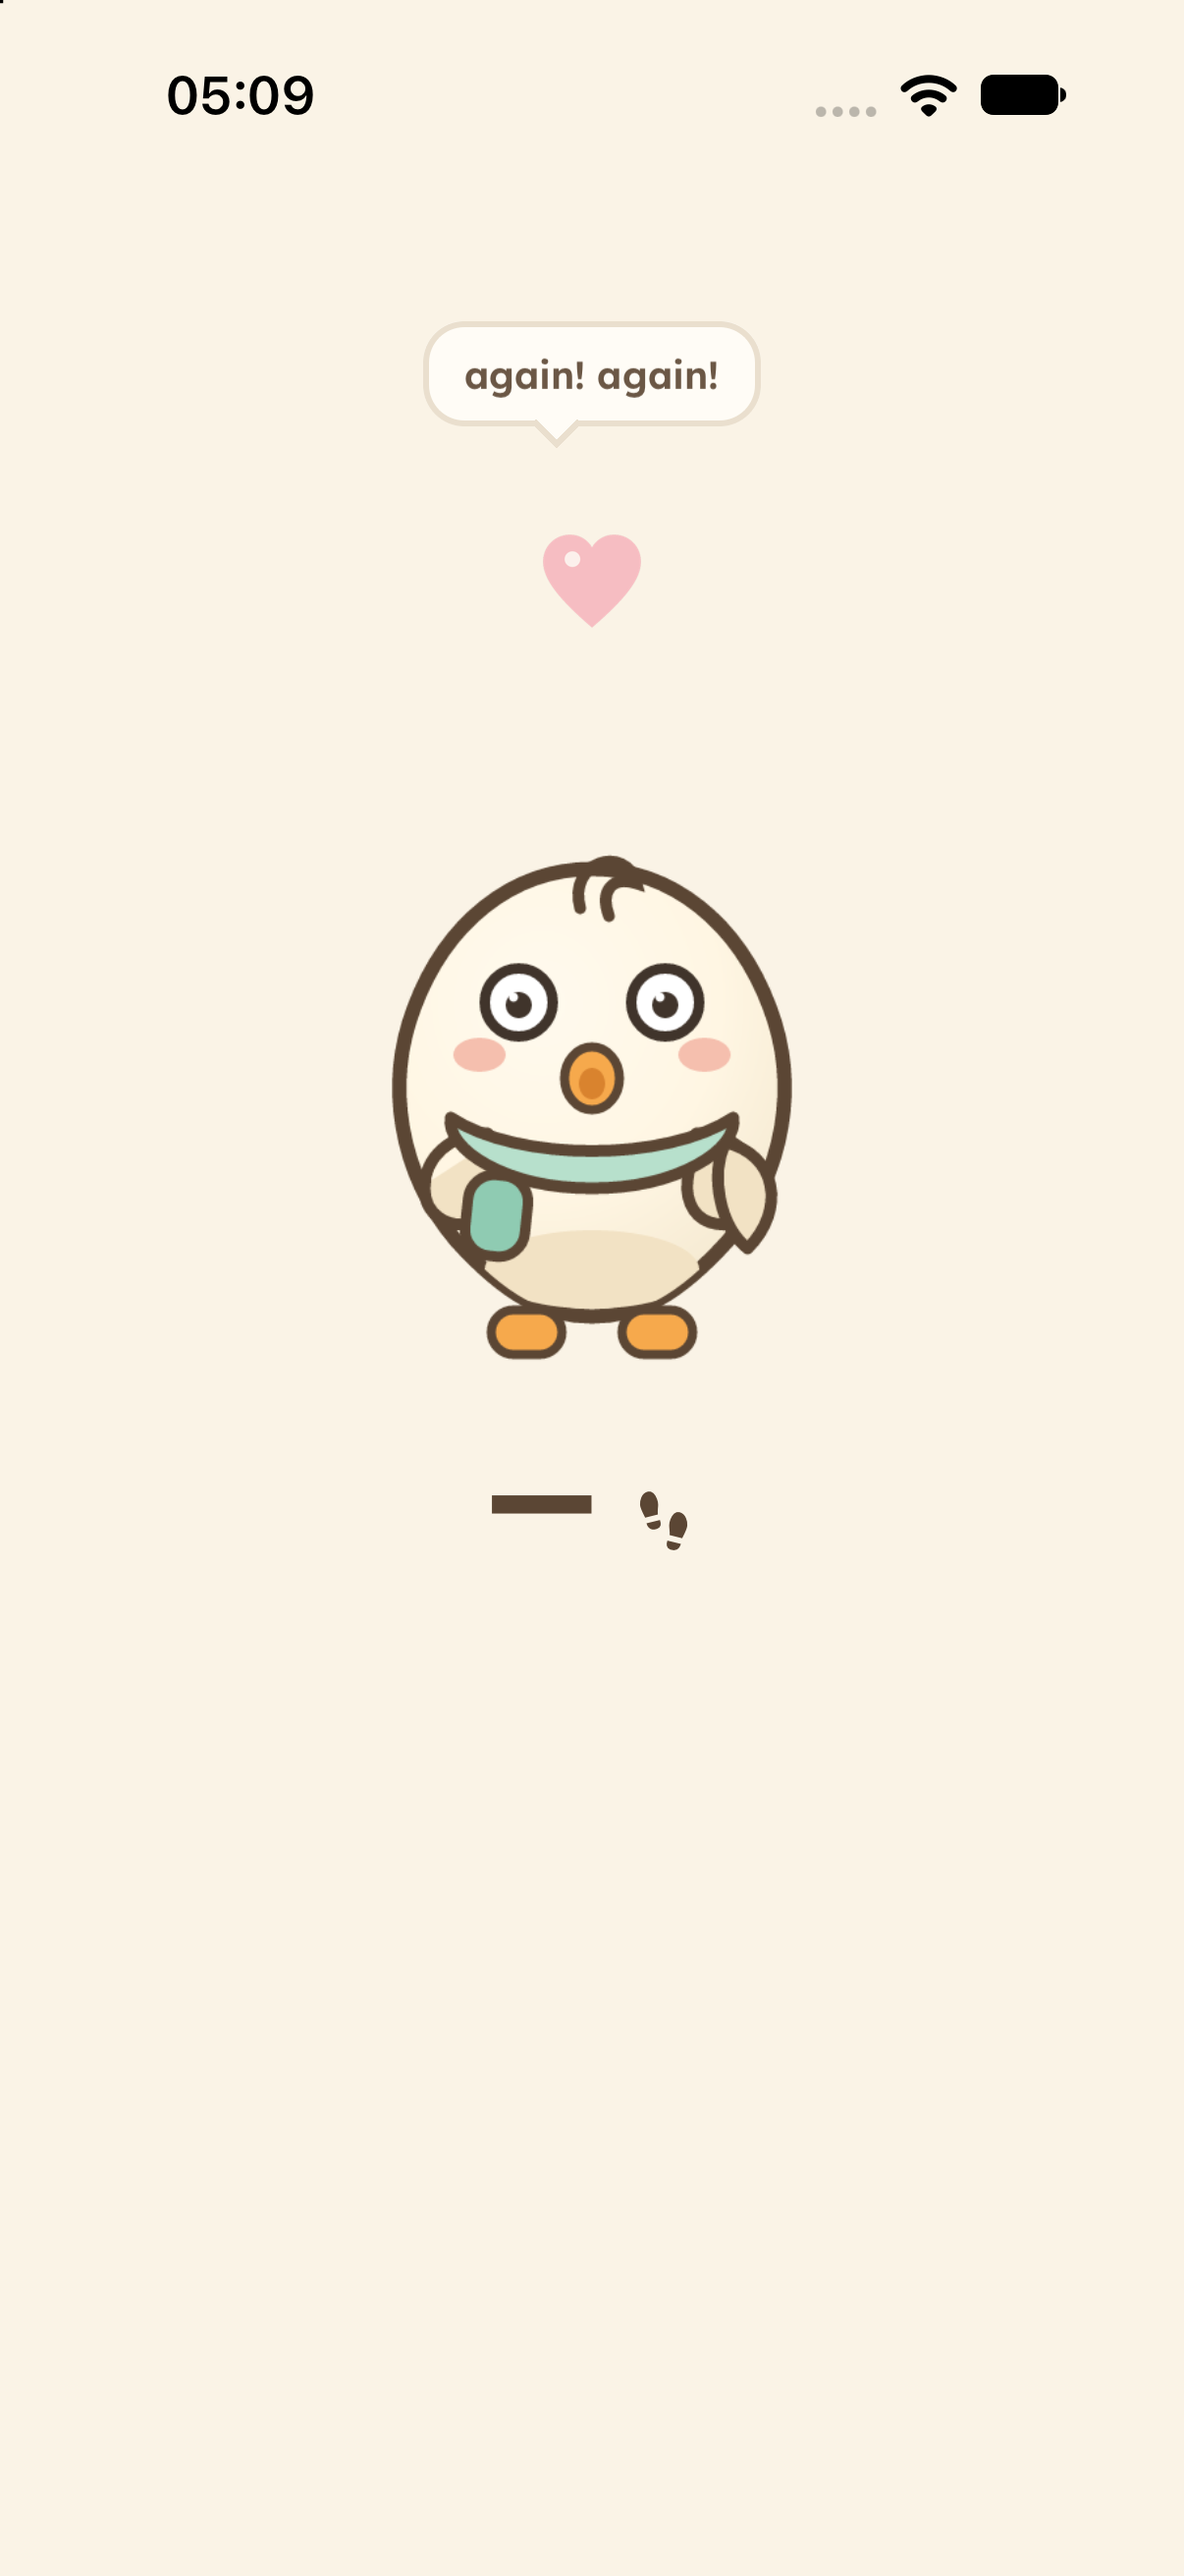
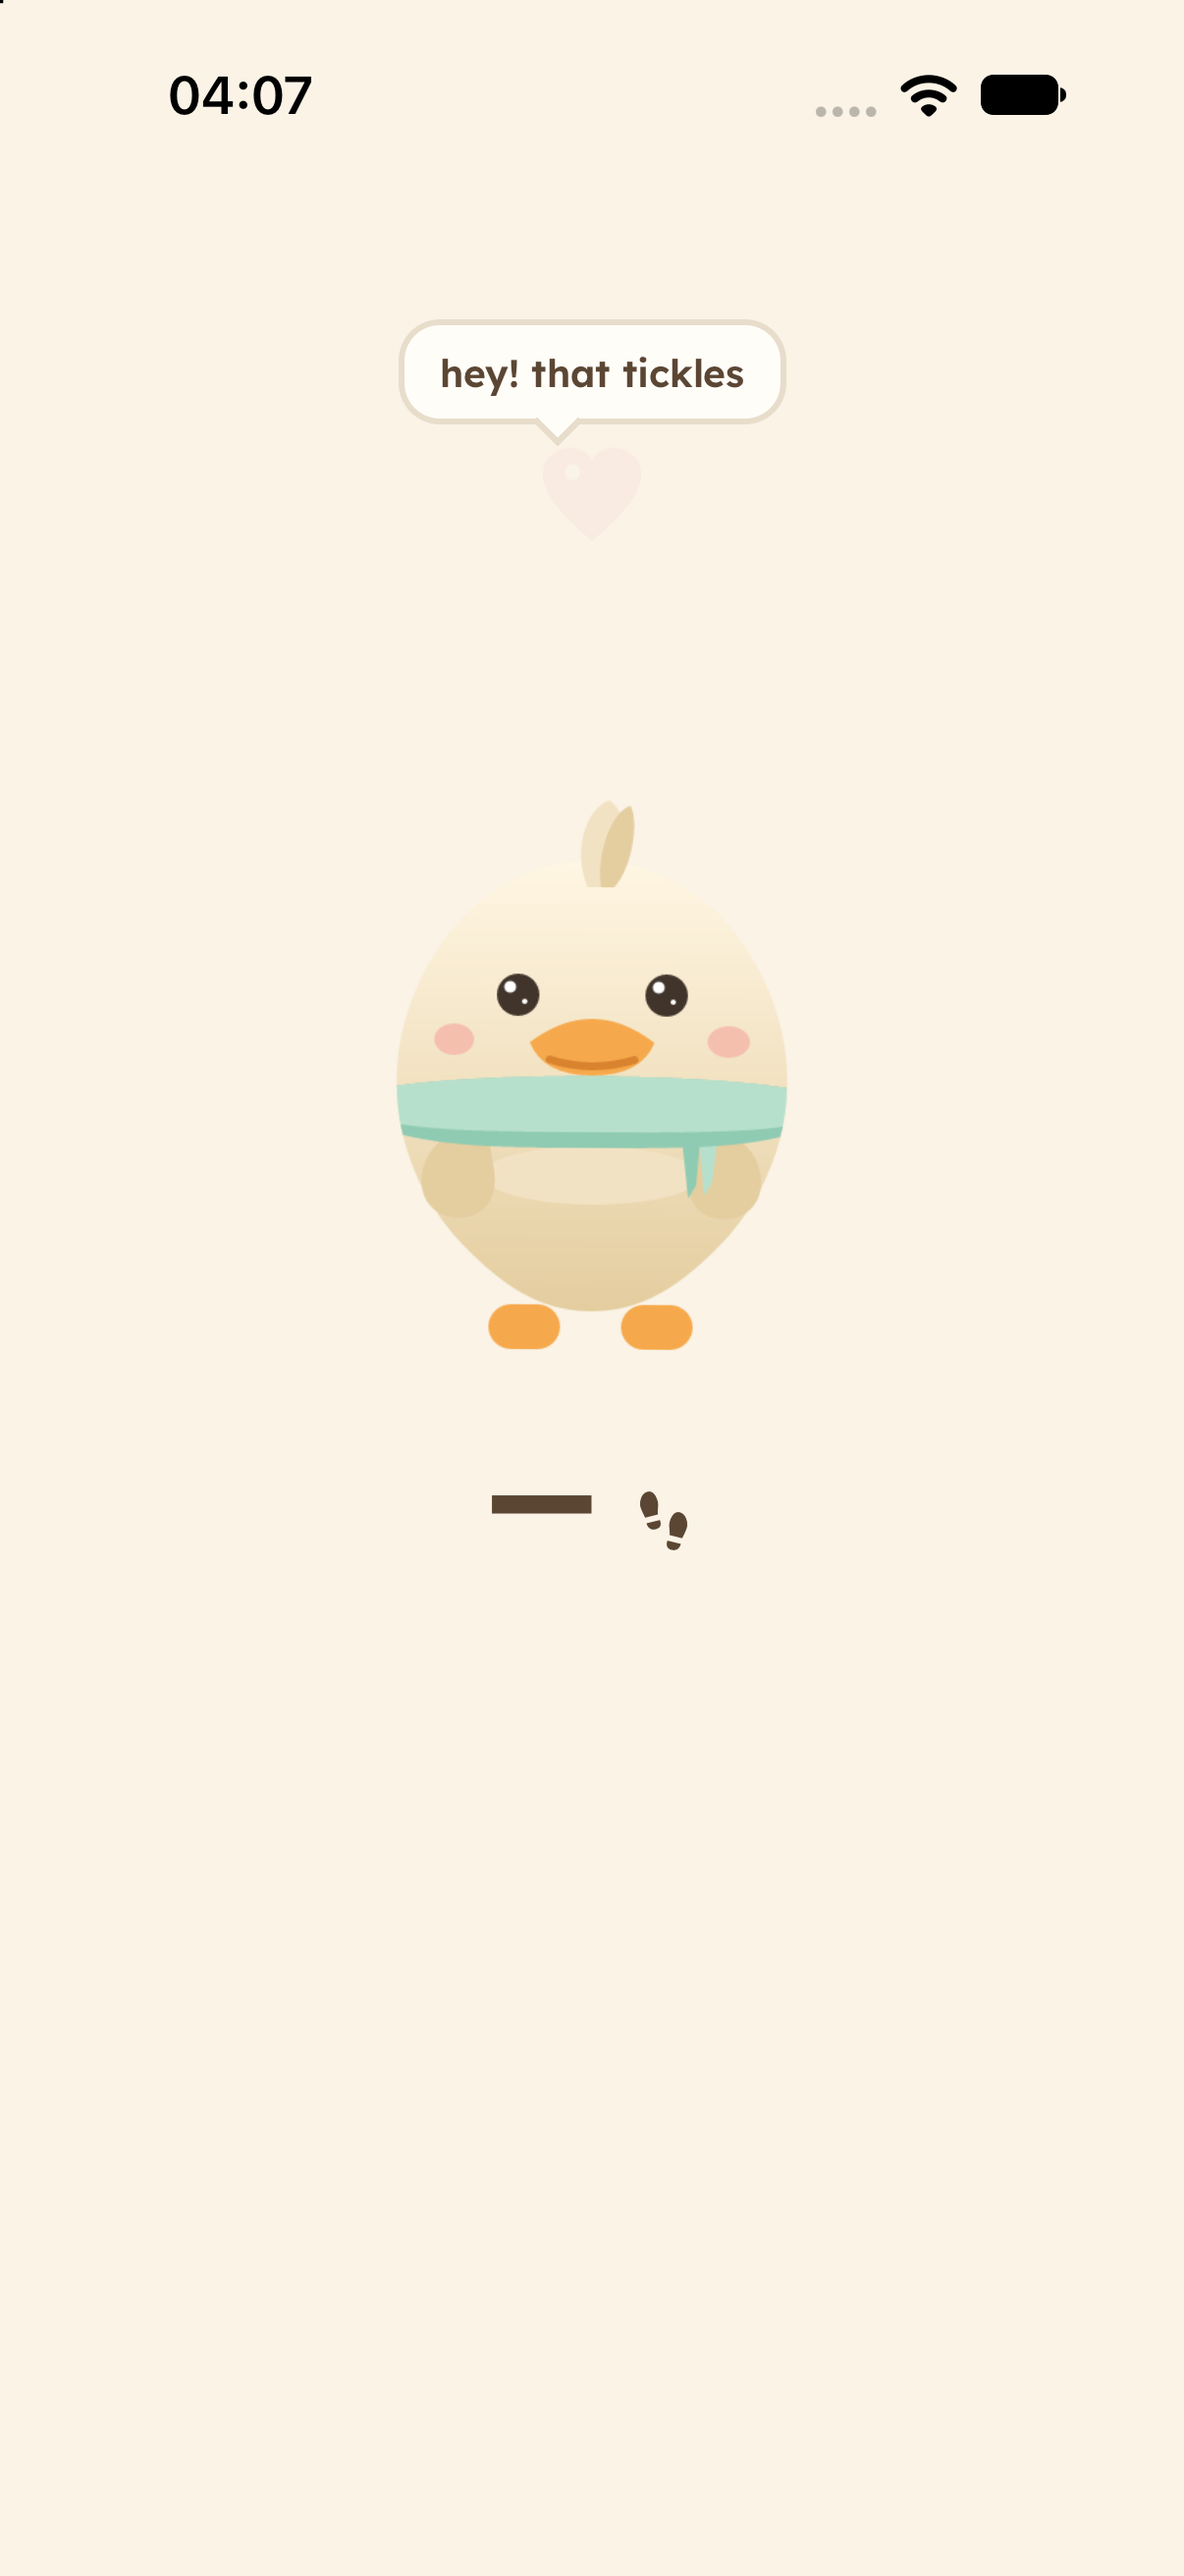
🧪 [test] mascot: QA v2 re-captures on the motion lineage
- re-capture idle/poke/sleep/hop/walk/celebrate + pixel-duck home in-app on the new art (4974ccb)
- walk plays the manifest v2 cycle (seeded 2,500 total), celebrate from a goal-reaching 8,000
- AC4 live drive: smooth default, seeded pixel-duck, unknown-id fallback, restored default
- validators ×3 PASS + 22/22 byte-compare vs a fresh mascots@ca2f3a2 render; typecheck 0; suite 158/158
- stroll stays v1-art (background onTouchStart not drivable by idb), dizzy documented — not faked

diff --git a/docs/super-board/runs/issue-2-qa-v2-mascots/QA-REPORT.md b/docs/super-board/runs/issue-2-qa-v2-mascots/QA-REPORT.md
@@ -1,0 +1,65 @@
+# mascots#2 QA report — v2
+
+**Outcome:** Pass — 5/5 acceptance criteria
+**Issue / PR:** DayliTracker/mascots#2 / DayliTracker/dayli-step-tracker#62
+**Tested head:** `4974ccb522fba6e635b130393cec75aef8168b6e` (builder round 2 — motion lineage rebase)
+**Base:** `origin/main` (dayli repo)
+**Branch:** `issue-2-ship-smooth-duck-behind-the-switcher`
+**QA evidence:** `docs/super-board/runs/issue-2-qa-v2-mascots/` (this round's own captures + logs; v1's are `issue-2-qa-v1-mascots/`, the older `issue-2-qa-v1..v3/` folders are a different, earlier dayli#2 — UX flows — and are untouched)
+**Simulator:** iPhone 18 Pro, iOS 27.0, booted UDID `D1685295-6302-4015-B352-561ECA30D998`; Release build via `npx expo run:ios --configuration Release --no-bundler` (exit 0, installed and launched), `xcrun simctl launch booted com.daylitracker.dayli`
+**Purpose of this round:** the round-2 rebuild re-vendored the post-#15 replacement art, the manifest v2 walk cycle and the perpetual motion layer (mascots#19/#20/#21 lineage). Builder's handoff left two ACs open for QA v2: per-state re-captures on the new art (AC3) and the live default/switcher re-drive (AC4). This round re-ran every check on `4974ccb` and re-captured what the tooling allows.
+
+## Acceptance criteria
+
+| AC | Result | Observable verification and evidence |
+|---|---|---|
+| The timing preview is approved by the user before any simulator run | Pass (delegated ruling, verified not re-litigated) | The Gate 2 delegated-ruling comment exists on mascots#2 (comment `6713563977`, created `2026-11-07T21:59:30Z`), before every simulator run of this card, including this round's. The artifact reproduces: `node scripts/mascots/build-timing-preview.mjs` exits 0 and `docs/mascots/duck/timing-preview.html` is **byte-identical** after regen (`cmp` clean, this round). Mood constants match the ruling list: `POKE_MS 550`, `WALK_MS 2600`, `HOP_MS 700`, `DIZZY_MS 1200`, `SLEEP_WAKE_MS 12000`, `STROLL_LEG_MS 800`, `LEAD_MS 450`, `ARRIVE_MS 600` (`components/PixelPet.tsx:79-103`), `SLEEP_PRESS_MS 1200`/`STROLL_HOLD_MS 700` (`src/moods.ts`); the walk mood now additionally plays the manifest v2 cycle at 10 fps — the mascots#19/#20 motion the user's 2026-11-10 directive asked for, not a timing change. |
+| The validator passes on the vendored smooth-pack frames | Pass | `node scripts/mascots/validate-smooth-frames.mjs scripts/mascots/packs/smooth-duck.mjs --out assets/mascots/smooth-duck` → **PASS — 0 problem(s)**, exit 0 (`validator-smooth-shipped.txt`); fresh-render mode → **PASS — 0 problem(s)** (`validator-smooth-fresh-render.txt`); pixel fallback `validate-frames.mjs ... --out assets/mascots/pixel-duck` → **PASS — 0 problem(s)** (`validator-pixel.txt`). All three report byte-for-byte determinism. Cross-repo provenance: engine, pack, validator and palettes byte-identical to `DayliTracker/mascots@origin/main` (`ca2f3a2`) blobs, and a **fresh render from mascots main** reproduces all 17 shipped files (16 frames + manifest) + the contact sheet byte-for-byte — 22/22 `IDENTICAL` (`byte-compare-vs-mascots-main.txt`). |
+| Per-state screenshots for every state are saved to the app's mascot QA directory | Pass (with one honestly carried state) | `docs/mascots/duck/qa/` holds the QA v2 in-app captures **on the new art**: `state-idle/walk/celebrate/poke/sleep/hop.png` + `pixel-duck-home.png` — idle (default launch), poke (idb tap: "hey! that tickles" + heart), sleep (2.5 s duck hold: closed eyes + z-z), hop (double-tap: happy wing-spread jump frame), walk (seeded 2,500 total → rising progress → manifest v2 cycle + "waddle with me?" bubble), celebrate (seeded 8,000 = goal → "WE DID IT!" + star particles). `state-stroll.png` remains the **v1-art capture, explicitly not re-faked**: the stroll's 700 ms background long-hold runs on the passive `onTouchStart` tracker (`App.tsx`) which does not register idb's synthesized touches — 3 attempts this round (tap-hold at 2 background positions, zero-distance swipe-hold) never fired it; recorded in `qa/README.md`, and `tests/mascot-qa.test.mjs` pins exactly this contract (every drivable state captured, every non-drivable state named in the README). **Dizzy** remains documented-not-captured (a compliant wiggle needs a multi-reversal drag ≤140 px; idb single-stroke swipes cannot zigzag and `idb ui swipe` hangs in this environment). |
+| The smooth duck is the default shipped mascot and the pixel duck remains selectable via the switcher | Pass | Fresh launch with no preferences doc renders the **smooth duck** (`01-home-smooth-duck-default.png`; registry ships `smooth-duck` first, `components/pets.ts:59-73`). Seeding the exact Settings document `dayli.preferences.v1 = {"languageOverride":null,"petId":"pixel-duck"}` into the app's real AsyncStorage (`RCTAsyncLocalStorage_V1/manifest.json`) and relaunching renders the **pixel duck** (`07-home-pixel-duck-seeded.png`). Unknown id `petId:"retired-pack-404"` falls back to the smooth duck without crashing (`08-unknown-id-falls-back-smooth.png`, `petForId` at `components/pets.ts:99-101`). Removing the id (`petId:null`) restores the default (`09-default-restored-petid-null.png`). Unit pins: `tests/preferences.test.mjs` (round-trip, pre-`petId` docs), `tests/today.test.mjs:106` (registry frames). |
+| Typecheck and app run are green | Pass | `npm run typecheck` exit 0 (`typecheck-output.txt`) · `CI=1 npm test` **158/158 pass, 0 fail, exit 0** (`test-output.txt`, re-run after the re-captures landed) · Release build exit 0 and the app launches, renders and answers interaction on iPhone 18 Pro (captures 01–09). |
+
+## Test-gap ledger (run.md step 4b)
+
+| AC | Unit | Component | E2E | Issue-scoped observable check |
+|---|---|---|---|---|
+| AC1 | `tests/moods.test.mjs` pins gesture/timing constants | — | — | Approval record + timestamp ordering verified on mascots#2; preview regen byte-identical; constants grep-verified against the ruling. |
+| AC2 | `tests/smooth-frames.test.mjs`, `tests/pixel-frames.test.mjs` pin the validator contract (in the 158) | Validator renders + pixel-audits every frame | — | Validator run live ×3 (shipped, fresh render, pixel) + 22/22 cross-repo byte compare incl. a fresh mascots-main render. |
+| AC3 | `tests/mascot-qa.test.mjs` pins the captured set + README naming | In-app captures committed | Simulator captures re-driven for idle/poke/sleep/hop/walk/celebrate | QA directory contents verified; 6 of 7 states re-captured on the new art. |
+| AC4 | `tests/preferences.test.mjs` (round-trip, pre-petId), `tests/today.test.mjs:106` (registry) | Settings radio rows render per `PETS` with `accessibilityState.selected` | Default / seeded / unknown-id / restored launches verified live | Home renders the right pack in all four preference states. |
+| AC5 | Suite 158/158 | — | Build + launch + interaction on iPhone 18 Pro | All green. |
+
+**High gaps needing app code: none.** The round-2 diff's new surface (manifest v2 cycle playback, perpetual motion layer) is pinned by the suite's smooth-frames/today/moods tests, and the cycle fps path guards fps ≤ 1 (`Math.max(16, …)` at `components/PixelPet.tsx:308`). Medium/Low gaps carried to the Reviewer (no bounce, same classes as v1): (1) `state-stroll.png` is v1-art — the passive background touch tracker is not drivable by idb (above); (2) dizzy not captured — no compliant zigzag from the automation backends; (3) the Settings Mascot page has no screenshot — nav into Settings is swipe-only (`src/navigation.ts`) and `idb ui swipe` hangs in this environment (v1: swipes didn't drive PanResponder; this round they never complete), so the page stays pinned by tests + the seeded-document contract.
+
+## Edge-case analysis
+
+| Class | Assessment |
+|---|---|
+| Unknown / retired pet id | Verified live this round: `retired-pack-404` → smooth default, no crash (`08-unknown-id-falls-back-smooth.png`; `components/pets.ts:99-101`). |
+| Malformed preferences | `parsePreferences` (`src/preferences.ts:47-60`) errors loudly, never silently resets; pre-`petId` documents parse with the default (pinned `tests/preferences.test.mjs:73`). |
+| Language × mascot interaction | Both writers persist the whole document, neither erases the other (pinned round-trips). |
+| Pack asset integrity | Alpha-in-silhouette + registration per frame (validator); a missing frame fails the suite (`tests/today.test.mjs:106`). |
+| v1-pack fallback | The pixel duck ships no `cycles` — `PixelPet` degrades to the two-frame walk swap (`components/PixelPet.tsx:141`, code-read; pixel pack validator PASS). |
+| Goal boundary | celebrate at progress ≥ 1 verified live with a seeded goal-reaching total (8,000 = `DEFAULT_GOAL` from `src/today.ts:4`). |
+| Money/auth/schema | None — no payment, auth, or schema surface in the diff. |
+
+## Interaction-tooling record (honest limits)
+
+- Taps, long-presses and double-taps on the duck work this round (after restarting the idb companion — the stale companion left a dead cached HID connection, "dtuhidd connection invalidated"; a fresh `idb_companion` on port 10882 restored HID taps).
+- Background holds do not: the stroll long-hold lives on a passive `onTouchStart` tracker, which the synthesized stream does not reach (3 attempts; the duck only woke from its own 12 s self-wake, not the touch).
+- Swipes hang entirely this round (`idb ui swipe` never completes; an in-flight gesture also leaves `RCTSurfaceTouchHandler` stuck in active phase per the sim's gesture log) — so no Settings-page navigation and no wiggle drag. Nothing was faked; the gaps are recorded in `qa/README.md` and the ledger above.
+- Seeded-state drives (walk, celebrate, pixel-duck, unknown-id, restored) go through the app's real AsyncStorage document store, terminate → edit `manifest.json` → relaunch, and are visible in the captures.
+
+## Checks run this round
+
+| Check | Command | Result |
+|---|---|---|
+| Typecheck | `npm run typecheck` | exit 0 |
+| Full suite | `CI=1 npm test` | 158/158 pass, 0 fail, exit 0 (re-run after re-captures) |
+| Smooth validator (shipped frames) | `node scripts/mascots/validate-smooth-frames.mjs scripts/mascots/packs/smooth-duck.mjs --out assets/mascots/smooth-duck` | PASS — 0 problem(s), exit 0 |
+| Smooth validator (fresh render) | `node scripts/mascots/validate-smooth-frames.mjs scripts/mascots/packs/smooth-duck.mjs` | PASS — 0 problem(s), exit 0 |
+| Pixel validator | `node scripts/mascots/validate-frames.mjs scripts/mascots/packs/duck.mjs --out assets/mascots/pixel-duck` | PASS — 0 problem(s), exit 0 |
+| Cross-repo byte compare | fresh render from `DayliTracker/mascots@origin/main` (`ca2f3a2`) in a temp worktree, `cmp` per file | 22/22 IDENTICAL (engine/pack/validator/palettes blobs + 17 rendered files + contact sheet) |
+| Timing preview reproduction | `node scripts/mascots/build-timing-preview.mjs` then `cmp` | byte-identical, exit 0 |
+| Build + install + launch | `npx expo run:ios --configuration Release --no-bundler`; `xcrun simctl launch booted com.daylitracker.dayli` | exit 0; pid per launch in captures |
+| Interaction evidence | `idb ui tap [--duration] --udid …`; `xcrun simctl io booted screenshot` | 9 captures + 1 a11y dump (`a11y-home-smooth.json`) |

diff --git a/docs/mascots/duck/qa/README.md b/docs/mascots/duck/qa/README.md
@@ -31,14 +31,24 @@ record. `tests/mascot-qa.test.mjs` pins the captured set.
 Captured: `state-idle`, `state-walk`, `state-celebrate`, `state-poke`,
 `state-sleep`, `state-hop`, `state-stroll`.
 
-> **Stale on the motion-lineage rebuild (2026-11-11, mascots@0459293):** the
-> committed `state-*.png` captures show the v1 (Gate-1) art. The rebuild
-> re-vendored the post-#15 replacement art + manifest v2; re-capture on the
-> new art is pending QA v2. The idb HID backend was unavailable during the
-> rebuild ("dtuhidd connection invalidated"; no GUI Simulator for input
-> injection), so moods could not be re-driven — recorded here rather than
-> faked. The rebuild's own app-run evidence (new art rendering in-app) is
-> under `docs/super-board/runs/issue-2-build-v2/`.
+**QA v2 re-capture (2026-11-11, mascots#2 round 2 @ `4974ccb`):**
+`state-idle`, `state-walk`, `state-celebrate`, `state-poke`, `state-sleep`,
+`state-hop` and `pixel-duck-home.png` are re-captured in-app on the new
+motion-lineage art (post-#15 pack + manifest v2 walk cycle + the perpetual
+motion layer), driven live on iPhone 18 Pro (iOS 27.0). `walk` plays the
+manifest v2 cycle (`"waddle with me?"` bubble, seeded 2,500 total);
+`celebrate` fires from a goal-reaching 8,000 total. Evidence and the
+per-state drive record: `docs/super-board/runs/issue-2-qa-v2-mascots/`.
+
+> **`state-stroll.png` is still the v1-art capture.** The stroll's 700 ms
+> background long-hold runs on the passive `onTouchStart` tracker
+> (`App.tsx`), which does not register the idb-synthesized touch stream —
+> three attempts this round (tap-hold at two background positions, then a
+> zero-distance swipe-hold) only woke the duck, and `idb ui swipe` itself
+> hangs. Duck-Pressable gestures (tap/long-press/double-tap) drive fine.
+> The v1-art file is kept rather than replaced or faked; re-drive stroll on
+> device or with a gesture backend that synthesizes continuous background
+> touches.
 
 **Not captured — dizzy.** The wiggle verdict needs a multi-reversal drag on
 the duck (`isWiggle`: ≥2 direction flips, whole excursion ≤140px,
